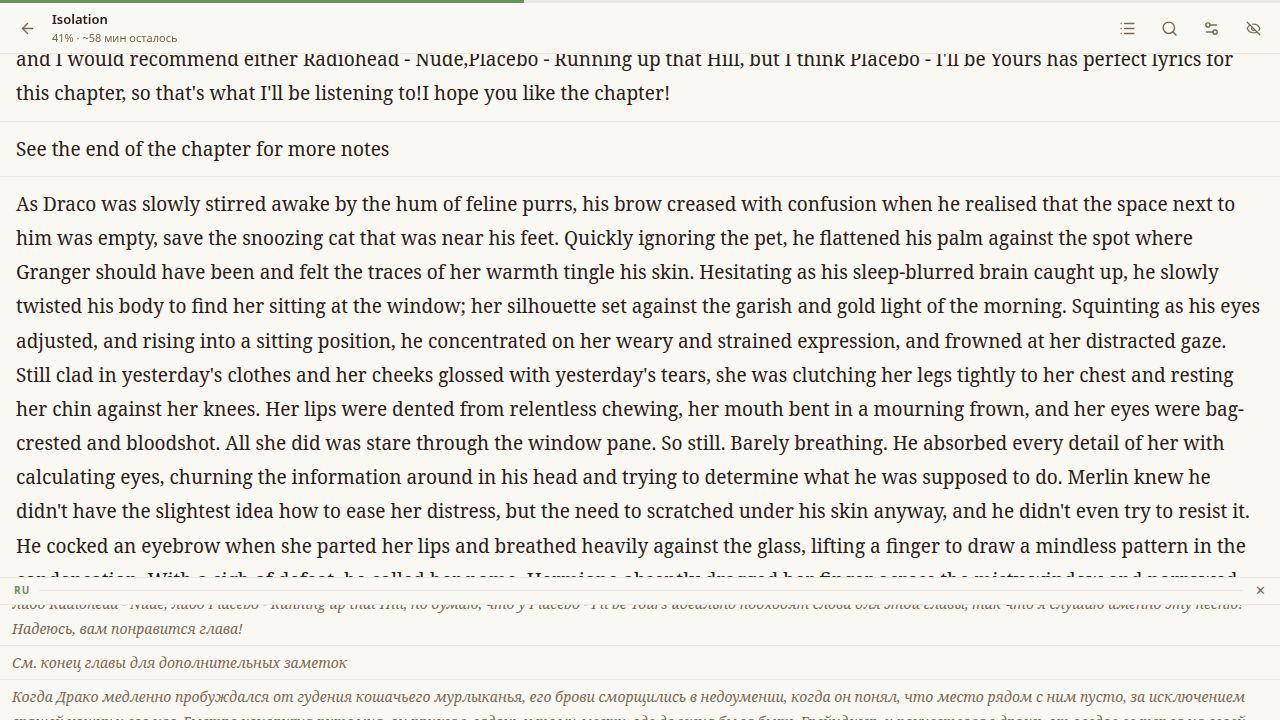
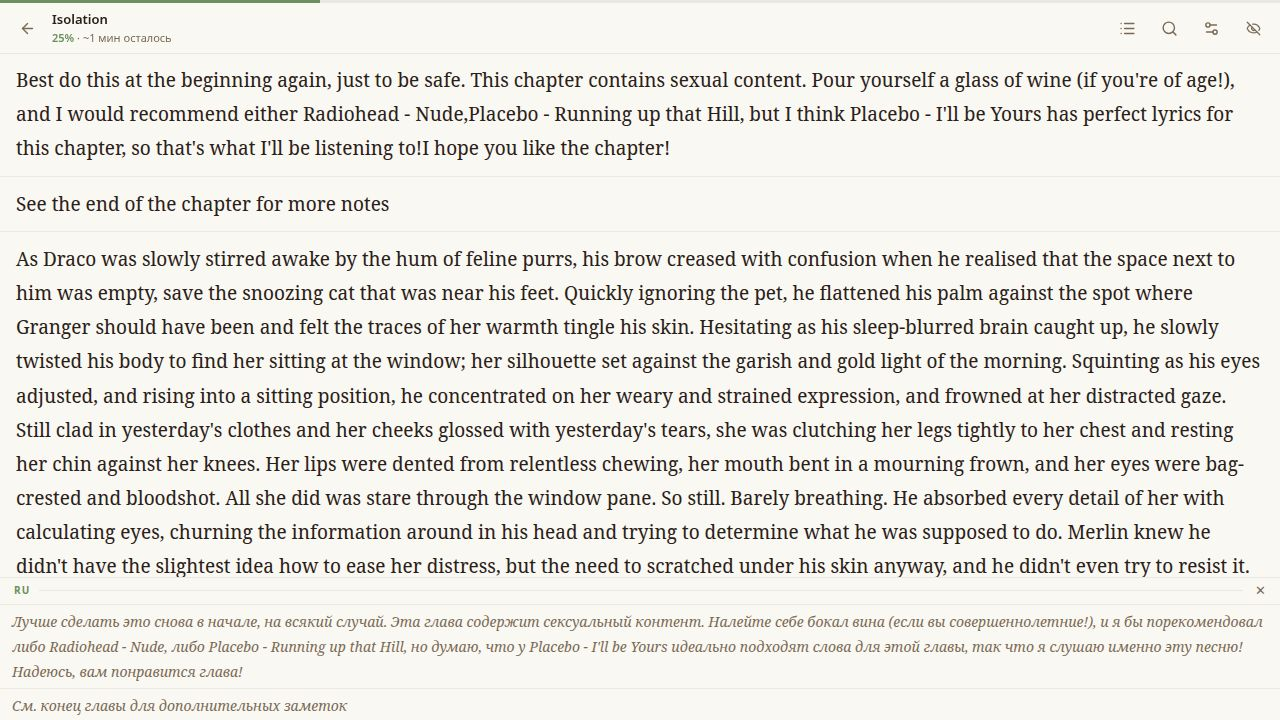
Update app to save and restore last scrolled position
Update service worker cache and opengraph image.

Replit-Commit-Author: Agent
Replit-Commit-Session-Id: 62c38cdd-38a0-4aaa-acc1-73bf1e24a4d2
Replit-Commit-Checkpoint-Type: full_checkpoint
Replit-Commit-Event-Id: d23c28f6-1e2e-43c8-8530-eaef748b5d38
Replit-Commit-Screenshot-Url: https://storage.googleapis.com/screenshot-production-us-central1/807ab369-f935-40c2-a873-9f686619f474/62c38cdd-38a0-4aaa-acc1-73bf1e24a4d2/plbUGmN
Replit-Helium-Checkpoint-Created: true

Changed region(s): [[0.0, 0.275, 1.0, 1.0], [0.0, 0.0306, 0.9688, 0.2444], [0.25, 0.0, 0.4062, 0.0306]]

diff --git a/artifacts/bilingual-reader/dev-dist/sw.js b/artifacts/bilingual-reader/dev-dist/sw.js
@@ -82,7 +82,7 @@ define(['./workbox-ebf8facd'], (function (workbox) { 'use strict';
     "revision": "3ca0b8505b4bec776b69afdba2768812"
   }, {
     "url": "index.html",
-    "revision": "0.8ofe0im4g38"
+    "revision": "0.5ajq8r53cck"
   }], {});
   workbox.cleanupOutdatedCaches();
   workbox.registerRoute(new workbox.NavigationRoute(workbox.createHandlerBoundToURL("index.html"), {
